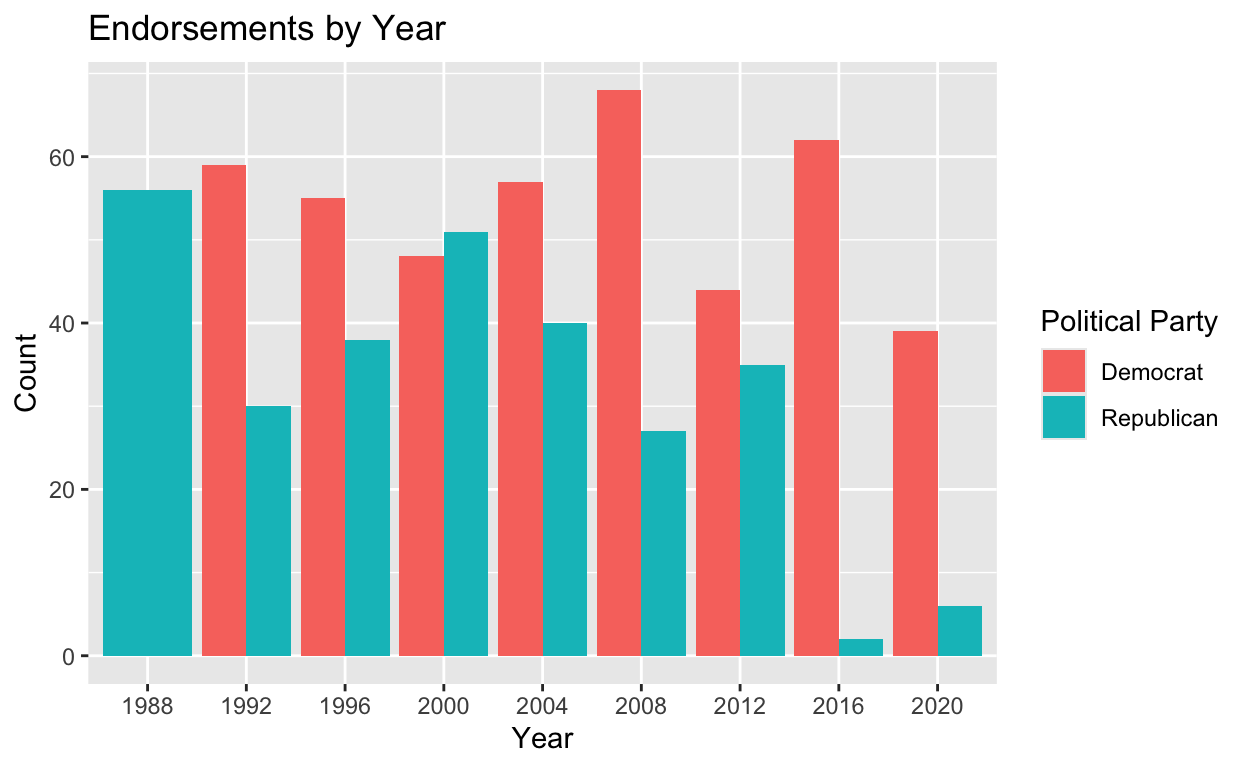
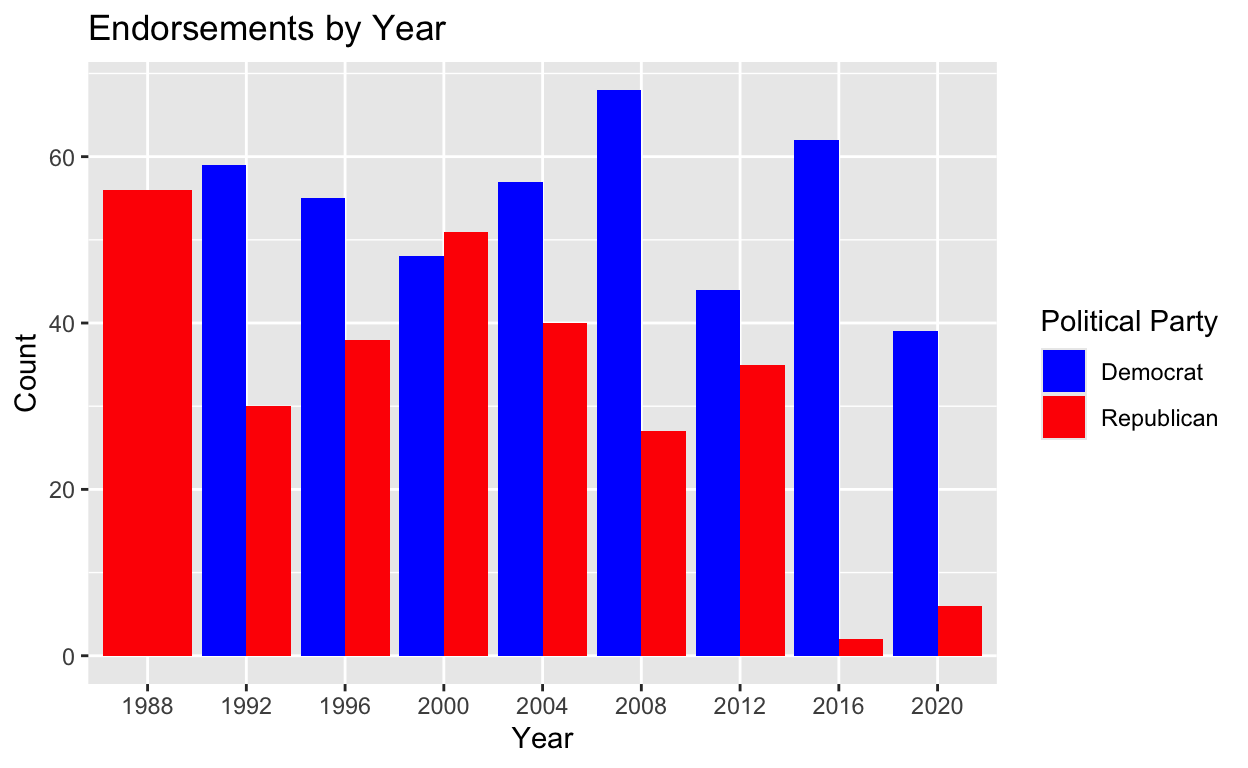
commit

diff --git a/index.html b/index.html
@@ -91,7 +91,7 @@ code span.wa { color: #5e5e5e; font-style: italic; } /* Warning */
   <!--radix_placeholder_meta_tags-->
   <title>Shifts in Newspaper Presidential Endorsements Over Time</title>
 
-  <meta property="description" itemprop="description" content="An analysis of whether U.S. media (newspapers in this case) have become more politically consistent across presidential elections"/>
+  <meta property="description" itemprop="description" content="An analysis of whether U.S newspapers have become more politically consistent across presidential elections, 1988-2020"/>
 
 
   <meta name="article:author" content="Gideon Leshner"/>
@@ -99,19 +99,19 @@ code span.wa { color: #5e5e5e; font-style: italic; } /* Warning */
   <!--  https://developers.facebook.com/docs/sharing/webmasters#markup -->
   <meta property="og:title" content="Shifts in Newspaper Presidential Endorsements Over Time"/>
   <meta property="og:type" content="article"/>
-  <meta property="og:description" content="An analysis of whether U.S. media (newspapers in this case) have become more politically consistent across presidential elections"/>
+  <meta property="og:description" content="An analysis of whether U.S newspapers have become more politically consistent across presidential elections, 1988-2020"/>
   <meta property="og:locale" content="en_US"/>
 
   <!--  https://dev.twitter.com/cards/types/summary -->
   <meta property="twitter:card" content="summary"/>
   <meta property="twitter:title" content="Shifts in Newspaper Presidential Endorsements Over Time"/>
-  <meta property="twitter:description" content="An analysis of whether U.S. media (newspapers in this case) have become more politically consistent across presidential elections"/>
+  <meta property="twitter:description" content="An analysis of whether U.S newspapers have become more politically consistent across presidential elections, 1988-2020"/>
 
   <!--/radix_placeholder_meta_tags-->
   <!--radix_placeholder_rmarkdown_metadata-->
 
   <script type="text/json" id="radix-rmarkdown-metadata">
-  {"type":"list","attributes":{"names":{"type":"character","attributes":{},"value":["title","author","description","output"]}},"value":[{"type":"character","attributes":{},"value":["Shifts in Newspaper Presidential Endorsements Over Time"]},{"type":"list","attributes":{},"value":[{"type":"list","attributes":{"names":{"type":"character","attributes":{},"value":["name"]}},"value":[{"type":"character","attributes":{},"value":["Gideon Leshner"]}]}]},{"type":"character","attributes":{},"value":["An analysis of whether U.S. media (newspapers in this case) have become more politically consistent across presidential elections"]},{"type":"list","attributes":{"names":{"type":"character","attributes":{},"value":["distill::distill_article"]}},"value":[{"type":"list","attributes":{"names":{"type":"character","attributes":{},"value":["self_contained"]}},"value":[{"type":"logical","attributes":{},"value":[false]}]}]}]}
+  {"type":"list","attributes":{"names":{"type":"character","attributes":{},"value":["title","author","description","output"]}},"value":[{"type":"character","attributes":{},"value":["Shifts in Newspaper Presidential Endorsements Over Time"]},{"type":"list","attributes":{},"value":[{"type":"list","attributes":{"names":{"type":"character","attributes":{},"value":["name"]}},"value":[{"type":"character","attributes":{},"value":["Gideon Leshner"]}]}]},{"type":"character","attributes":{},"value":["An analysis of whether U.S newspapers have become more politically consistent across presidential elections, 1988-2020"]},{"type":"list","attributes":{"names":{"type":"character","attributes":{},"value":["distill::distill_article"]}},"value":[{"type":"list","attributes":{"names":{"type":"character","attributes":{},"value":["self_contained"]}},"value":[{"type":"logical","attributes":{},"value":[false]}]}]}]}
   </script>
   <!--/radix_placeholder_rmarkdown_metadata-->
   
@@ -1519,7 +1519,7 @@ code span.wa { color: #5e5e5e; font-style: italic; } /* Warning */
 <!--radix_placeholder_front_matter-->
 
 <script id="distill-front-matter" type="text/json">
-{"title":"Shifts in Newspaper Presidential Endorsements Over Time","description":"An analysis of whether U.S. media (newspapers in this case) have become more politically consistent across presidential elections","authors":[{"author":"Gideon Leshner","authorURL":"#","affiliation":"&nbsp;","affiliationURL":"#","orcidID":""}]}
+{"title":"Shifts in Newspaper Presidential Endorsements Over Time","description":"An analysis of whether U.S newspapers have become more politically consistent across presidential elections, 1988-2020","authors":[{"author":"Gideon Leshner","authorURL":"#","affiliation":"&nbsp;","affiliationURL":"#","orcidID":""}]}
 </script>
 
 <!--/radix_placeholder_front_matter-->
@@ -1533,7 +1533,7 @@ code span.wa { color: #5e5e5e; font-style: italic; } /* Warning */
 
 <!--radix_placeholder_categories-->
 <!--/radix_placeholder_categories-->
-<p>An analysis of whether U.S. media (newspapers in this case) have become more politically consistent across presidential elections</p>
+<p>An analysis of whether U.S newspapers have become more politically consistent across presidential elections, 1988-2020</p>
 </div>
 
 <div class="d-byline">
@@ -1545,7 +1545,8 @@ code span.wa { color: #5e5e5e; font-style: italic; } /* Warning */
 
 <div class="d-article">
 <h1 id="introduction">Introduction</h1>
-<p>I’ll look at trends of newspapers and political behavior over time using the “endorsements dataset”, which includes newspaper presidential endorsements from different election years. My research question is: Do newspapers always endorse the same parties across all elections? My hypothesis is that newspapers have been more consistent in their endorsements because they are motivated to maintain stable political identities rather than changing parties frequently due to growing political polarization and higher audience expectations. In order to determine whether endorsement consistency varies over time, the primary explanatory variable is ‘election year’, which is defined as the year of each presidential election. In order to quantify the variation in media endorsement consistency across elections, I will also create a variable that indicates whether a newspaper endorsed the same party across all elections in the dataset. The outcome variable is ‘endorsement consistency’, which is a binary indicator that is equal to 1 if a newspaper always endorsed the same party across the dataset and 0 if it switched parties at least once. A positive correlation between election year and endorsement consistency would indicate that newspapers appearing in later election years are more likely to belong to the always-consistent group. If there is no trend, the hypothesis would be refuted.</p>
+<p>In this project we will look at the trends of newspapers and political behavior over time using the “endorsements dataset”. This includes newspaper presidential endorsements from different election years. My research question for this project is: Do newspapers always endorse the same parties across all elections? My hypothesis is that newspapers have stayed consistent in their endorsements because they aim to maintain stable political identities, especially as political polarization increases and audience expectations grow.</p>
+<p>In order to determine whether endorsement consistency varies over time, the primary explanatory variable is ‘election year’, which is defined as the year of each presidential election. In order to quantify media endorsement consistency across elections, I will also create a variable that indicates whether a newspaper endorsed the same party across all elections in the dataset. The outcome variable is ‘endorsement consistency’, that is equal to 1 if a newspaper always endorsed the same party across the dataset and 0 if it switched parties at least once. A positive correlation between election year and endorsement consistency would indicate that newspapers appearing in later election years are more likely to belong to the always-consistent group. If there is no trend, the hypothesis would be refuted.</p>
 <h1 id="data">Data</h1>
 <h3 id="load-the-data">Load the Data</h3>
 <p>This project uses a cross-sectional design. The main outcome variable is endorsement consistency, which equals 1 if a newspaper endorsed only one political party across all of its recorded elections and 0 if it switched parties at least once. My hypothesis would be supported if endorsement consistency increased in later election years.</p>
@@ -1663,13 +1664,12 @@ This figure displays the number of newspapers that consistently endorsed the sam
 <pre class="sourceCode r"><code class="sourceCode r"><span><span class='kw'><a href='https://rdrr.io/r/base/library.html'>library</a></span><span class='op'>(</span><span class='va'><a href='https://tidyverse.tidyverse.org'>tidyverse</a></span><span class='op'>)</span></span>
 <span><span class='va'>endorsements</span> <span class='op'>&lt;-</span> <span class='fu'><a href='https://readr.tidyverse.org/reference/read_delim.html'>read_csv</a></span><span class='op'>(</span><span class='st'>"endorsements.csv"</span><span class='op'>)</span></span>
 <span><span class='va'>endorsements</span> <span class='op'>&lt;-</span> <span class='fu'><a href='https://dplyr.tidyverse.org/reference/mutate.html'>mutate</a></span><span class='op'>(</span><span class='va'>endorsements</span>, </span>
-<span>               party_of_candidate <span class='op'>=</span> </span>
-<span>                 <span class='fu'><a href='https://dplyr.tidyverse.org/reference/case_when.html'>case_when</a></span><span class='op'>(</span><span class='va'>endorsed</span> <span class='op'>==</span> <span class='st'>"Obama"</span> <span class='op'>|</span> <span class='va'>endorsed</span> <span class='op'>==</span> <span class='st'>"Biden"</span> <span class='op'>|</span> </span>
-<span>                    <span class='va'>endorsed</span> <span class='op'>==</span> <span class='st'>"Clinton"</span> <span class='op'>|</span> <span class='va'>endorsed</span> <span class='op'>==</span> <span class='st'>"Gore"</span> <span class='op'>|</span> </span>
-<span>                    <span class='va'>endorsed</span> <span class='op'>==</span> <span class='st'>"Kerry"</span> <span class='op'>~</span> <span class='st'>"Democrat"</span>,</span>
-<span>                    <span class='va'>endorsed</span> <span class='op'>==</span> <span class='st'>"Trump"</span> <span class='op'>|</span> <span class='va'>endorsed</span> <span class='op'>==</span> <span class='st'>"Romney"</span> <span class='op'>|</span> </span>
-<span>                    <span class='va'>endorsed</span> <span class='op'>==</span> <span class='st'>"McCain"</span> <span class='op'>|</span> <span class='va'>endorsed</span> <span class='op'>==</span> <span class='st'>"Bush"</span> <span class='op'>|</span> </span>
-<span>                    <span class='va'>endorsed</span> <span class='op'>==</span> <span class='st'>"Dole"</span> <span class='op'>~</span> <span class='st'>"Republican"</span><span class='op'>)</span><span class='op'>)</span></span>
+<span>  party_of_candidate <span class='op'>=</span> <span class='fu'><a href='https://dplyr.tidyverse.org/reference/case_when.html'>case_when</a></span><span class='op'>(</span><span class='va'>endorsed</span> <span class='op'>==</span> <span class='st'>"Trump"</span> <span class='op'>|</span> <span class='va'>endorsed</span> <span class='op'>==</span> <span class='st'>"Romney"</span> <span class='op'>|</span> </span>
+<span>                                 <span class='va'>endorsed</span> <span class='op'>==</span> <span class='st'>"McCain"</span> <span class='op'>|</span> <span class='va'>endorsed</span> <span class='op'>==</span> <span class='st'>"Bush"</span> <span class='op'>|</span> </span>
+<span>                                 <span class='va'>endorsed</span> <span class='op'>==</span> <span class='st'>"Dole"</span> <span class='op'>~</span> <span class='st'>"Republican"</span>,</span>
+<span>                                 <span class='va'>endorsed</span> <span class='op'>==</span> <span class='st'>"Obama"</span> <span class='op'>|</span> <span class='va'>endorsed</span> <span class='op'>==</span> <span class='st'>"Biden"</span> <span class='op'>|</span> </span>
+<span>                                 <span class='va'>endorsed</span> <span class='op'>==</span> <span class='st'>"Clinton"</span> <span class='op'>|</span> <span class='va'>endorsed</span> <span class='op'>==</span> <span class='st'>"Gore"</span> <span class='op'>|</span> </span>
+<span>                                 <span class='va'>endorsed</span> <span class='op'>==</span> <span class='st'>"Kerry"</span> <span class='op'>~</span> <span class='st'>"Democrat"</span><span class='op'>)</span><span class='op'>)</span></span>
 <span><span class='va'>endorsements</span> <span class='op'>&lt;-</span> <span class='fu'><a href='https://dplyr.tidyverse.org/reference/select.html'>select</a></span><span class='op'>(</span><span class='va'>endorsements</span>, <span class='va'>publication</span>, </span>
 <span>                       <span class='va'>year</span>, <span class='va'>endorsed</span>, <span class='va'>party_of_candidate</span><span class='op'>)</span></span>
 <span><span class='va'>endorsements</span> <span class='op'>&lt;-</span> <span class='fu'><a href='https://rdrr.io/r/stats/na.fail.html'>na.omit</a></span><span class='op'>(</span><span class='va'>endorsements</span><span class='op'>)</span></span>
@@ -1678,7 +1678,8 @@ This figure displays the number of newspapers that consistently endorsed the sam
 <span>  <span class='fu'><a href='https://ggplot2.tidyverse.org/reference/labs.html'>labs</a></span><span class='op'>(</span>title <span class='op'>=</span> <span class='st'>"Endorsements by Year"</span>,</span>
 <span>       x <span class='op'>=</span> <span class='st'>"Year"</span>,</span>
 <span>       y <span class='op'>=</span> <span class='st'>"Count"</span>,</span>
-<span>       fill <span class='op'>=</span> <span class='st'>"Political Party"</span><span class='op'>)</span></span>
+<span>       fill <span class='op'>=</span> <span class='st'>"Political Party"</span><span class='op'>)</span><span class='op'>+</span> </span>
+<span>    <span class='fu'><a href='https://ggplot2.tidyverse.org/reference/scale_manual.html'>scale_fill_manual</a></span><span class='op'>(</span>values <span class='op'>=</span> <span class='fu'><a href='https://rdrr.io/r/base/c.html'>c</a></span><span class='op'>(</span><span class='st'>"Democrat"</span> <span class='op'>=</span> <span class='st'>"blue"</span>, <span class='st'>"Republican"</span> <span class='op'>=</span> <span class='st'>"red"</span><span class='op'>)</span><span class='op'>)</span></span>
 <span><span class='va'>endorsements</span> <span class='op'>&lt;-</span> <span class='va'>endorsements</span> <span class='op'>|&gt;</span></span>
 <span>  <span class='fu'><a href='https://dplyr.tidyverse.org/reference/arrange.html'>arrange</a></span><span class='op'>(</span><span class='va'>publication</span>, <span class='va'>year</span><span class='op'>)</span> <span class='op'>|&gt;</span></span>
 <span>  <span class='fu'><a href='https://dplyr.tidyverse.org/reference/group_by.html'>group_by</a></span><span class='op'>(</span><span class='va'>publication</span><span class='op'>)</span> <span class='op'>|&gt;</span></span>
